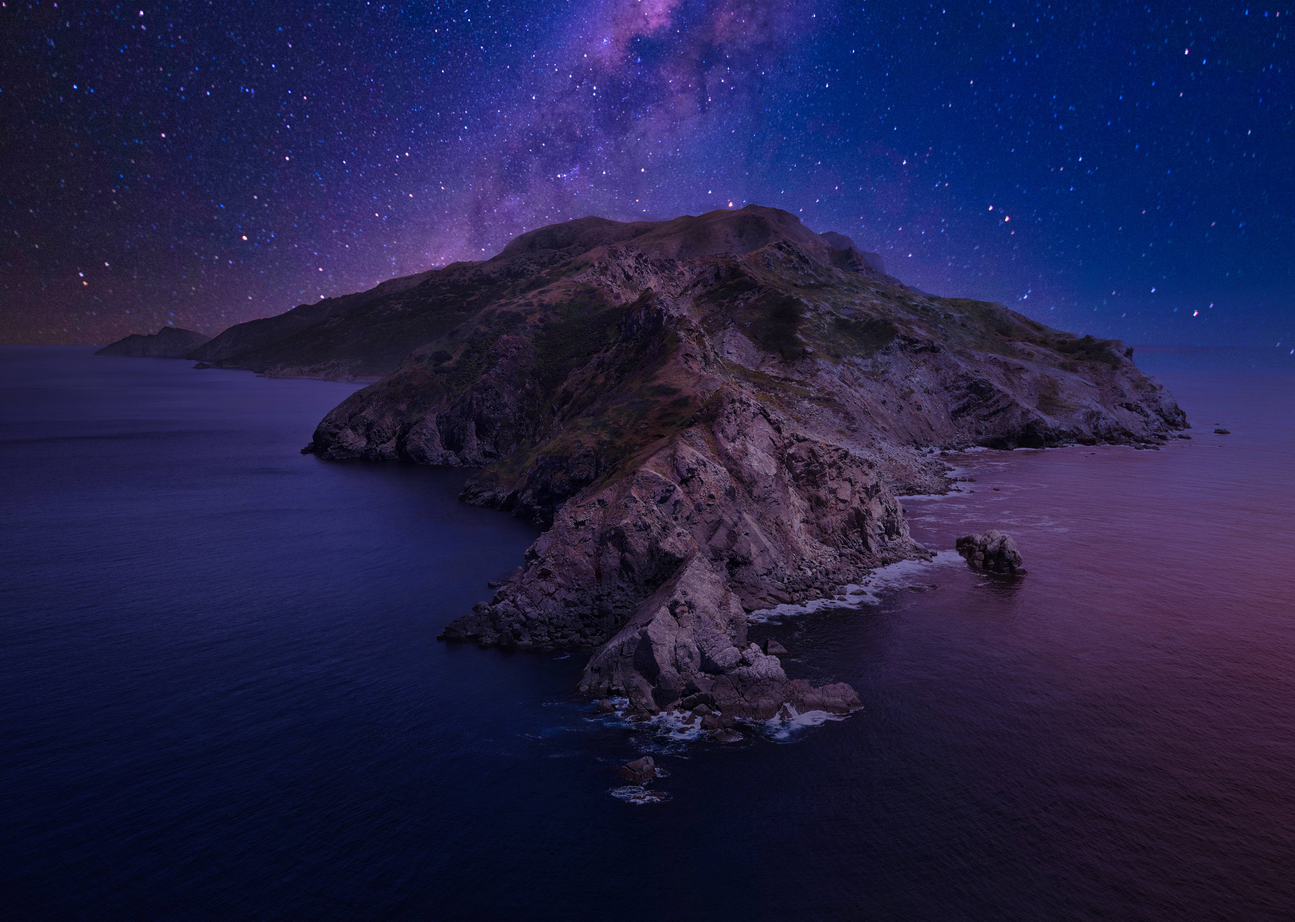
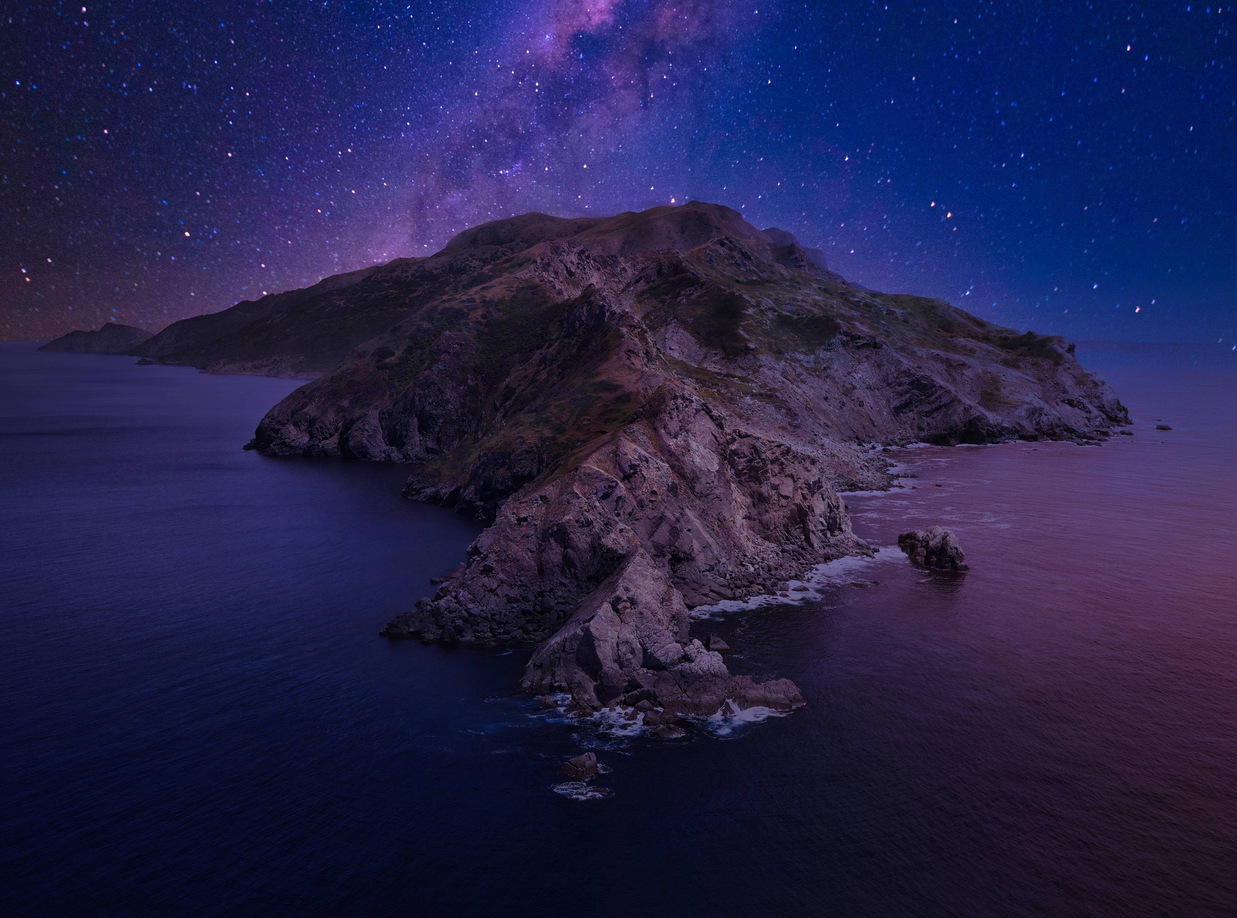
Netlify 개발 서버 세팅을 위해 백업

Changed region(s): [[0.0, 0.0, 0.9319, 0.8716], [0.9941, 0.3736, 1.0, 0.4047], [0.7456, 0.2179, 0.7766, 0.249]]

diff --git a/components/Header.vue b/components/Header.vue
@@ -5,19 +5,39 @@
       src="~assets/images/header/header-logo.png"
       alt="main-header__logo"
     />
-    <div class="main-header__title">MCLearning's Study Life</div>
+    <div class="main-header__title">{{ title }}</div>
     <div class="main-header__content-title">글 제목</div>
-    <ul class="main-header__icon">
-      <li class="main-header__icon-item">
+    <ul class="right-section">
+      <li class="right-section__item">
         <a href="">
           <img src="~assets/images/header/icon_github.svg" alt="icon_github" />
         </a>
       </li>
-      <li class="main-header__icon-item">
+      <li class="right-section__item">
         <a href="">
           <img src="~assets/images/header/icon_mail.svg" alt="icon_mail" />
         </a>
       </li>
+      <li class="right-section__item clock">
+        <Clock></Clock>
+      </li>
     </ul>
   </header>
 </template>
+
+<script>
+export default {
+  data() {
+    return {
+      title: '',
+    };
+  },
+  head() {
+    return {
+      changed: (info) => {
+        this.title = info.title;
+      },
+    };
+  },
+};
+</script>

diff --git a/components/Clock.vue b/components/Clock.vue
@@ -1,0 +1,28 @@
+<template>
+  <span>
+    {{ currentTime() }}
+  </span>
+</template>
+
+<script>
+export default {
+  methods: {
+    currentTime() {
+      const date = new Date();
+      const m = date.getMonth() + 1;
+      const d = date.getDate();
+      const D = ['일', '월', '화', '수', '목', '금', '토'][date.getDay()];
+
+      // https://stackoverflow.com/questions/8888491/how-do-you-display-javascript-datetime-in-12-hour-am-pm-format
+      let h = date.getHours();
+      const ampm = h >= 12 ? '오후' : '오전';
+      h = h % 12;
+      h = h === 0 ? 12 : h; // the hour '0' should be '12'
+      let M = date.getMinutes();
+      M = M < 10 ? '0' + M : M;
+
+      return `${m}월 ${d}일 (${D}) ${ampm} ${h}:${M}`;
+    },
+  },
+};
+</script>

diff --git a/assets/scss/abstract/variable.scss b/assets/scss/abstract/variable.scss
@@ -8,8 +8,8 @@ $color6: #656565;
 $color7: #aeaeae;
 $color8: #ecebec;
 
-$header-bg-color: $color2;
-$header-color: $color8;
+$header-bg-color: transparent;
+$header-color: white;
 
 $dock-color: $color8;
 $dock-bg-color: $color2;
@@ -25,13 +25,13 @@ $folder-body-bg-color: $color2;
 $folder-border-color: $color5;
 
 // Layout
-$header-height: 4rem;
+$header-height: 5rem;
 $dock-width: 4rem;
 $folder-nav-width: 18rem;
 $folder-header-width: 7rem;
 
 // font-size
-$header-font-size: 1.3rem;
+$header-font-size: 1.4rem;
 
 :export {
   dockWidth: $dock-width;

diff --git a/assets/scss/layouts/header.scss b/assets/scss/layouts/header.scss
@@ -35,18 +35,22 @@
     }
   }
 
-  &__icon {
+  .right-section {
     display: flex;
     margin-left: auto;
-    &-item {
-      margin-left: 1.5rem;
-      opacity: 0.6;
+    &__item {
+      display: flex;
+      align-items: center;
+      margin-right: 1.5rem;
       img {
         height: calc(#{$header-height / 2});
       }
-      &:first-child {
-        margin-left: 0;
+
+      &.clock {
+        margin-right: 0;
+        opacity: 1;
       }
     }
   }
+
 }

diff --git a/nuxt.config.js b/nuxt.config.js
@@ -5,7 +5,7 @@ export default {
 
   // github으로 배포하는 경우 base 수정 필요
   router: {
-    base: '/blog/',
+    base: '/',
     extendRoutes(routes, resolve) {
       // Add some routes here ...
 
@@ -16,7 +16,7 @@ export default {
 
   // Global page headers: https://go.nuxtjs.dev/config-head
   head: {
-    title: `MCLearning's study life`,
+    title: `IronMin Blog`,
     htmlAttrs: {
       lang: 'en',
     },

diff --git a/pages/notice/_article.vue b/pages/notice/_article.vue
@@ -1,0 +1,15 @@
+<template>
+  <nuxt-content :document="doc" />
+</template>
+
+<script>
+export default {
+  async asyncData({ $content, params }) {
+    const doc = await $content(params.slug || 'index').fetch();
+    console.log('Doc', doc);
+    console.log('Params.slug', params.slug);
+
+    return { doc };
+  },
+};
+</script>

diff --git a/components/Dock.vue b/components/Dock.vue
@@ -66,8 +66,6 @@ export default {
       try {
         img = require(`~/assets/images/dock/${name}.png`);
       } catch (error) {
-        console.log(error);
-        console.log(`Can't load '${name}.png'. Change to default image`);
         img = require(`~/assets/images/dock/dock_default.png`);
       }
 

diff --git a/assets/scss/base.scss b/assets/scss/base.scss
@@ -1,5 +1,6 @@
 body {
   height: 100vh;
-  background: url('~assets/images/background.jpeg');
+  background: url('~assets/images/background3.jpg');
   background-size: cover;
+  background-position: center;
 }

diff --git a/pages/history.vue b/pages/history.vue
@@ -3,7 +3,5 @@
 </template>
 
 <script>
-export default {
-  name: 'History',
-};
+export default {};
 </script>

diff --git a/pages/notice.vue b/pages/notice.vue
@@ -5,3 +5,5 @@
 <script>
 export default {};
 </script>
+
+<style scoped></style>

diff --git a/content/notice/index.md b/content/notice/index.md
@@ -1,0 +1,6 @@
+---
+title: 공지사항
+description: 설명충임 ㅎㅎ
+---
+
+# 글!!!
